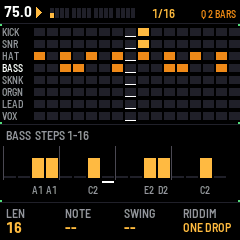
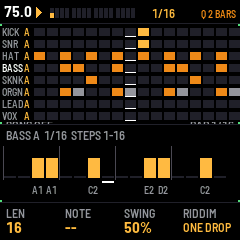
4.8 the session (4/4): docs, the second walkthrough, combos on the keyboard
Docs:
- Manual: the STEPS controls, four patterns a channel, recording live,
  the SETUP rows, scenes that point at patterns, mute + PRESET, the
  song's bars.
- Cheat sheet: a "Patterns A-D and recording" section.
- Interface spec 4.8, and its shift table built.
- Roadmap 4.8. Slots now hold 2,920 moves (1,490 before).
- The manual's screenshots, regenerated.

Video: tools/video/patterns_dub.py, a second walkthrough built on
first_dub.py's machinery, which now takes a name, a prelude and its
cards. In 54 s:
- a bar of bass is recorded into an empty pattern, counted in, and
  loops as played;
- it is copied into C and launched on the line;
- C is doubled, and a note taken out of the second bar;
- the bass goes back to B from the desk (mute key + PRESET);
- rim and hat pads are overdubbed on the kick's channel, and that
  pass is undone.

Fix: with the keyboard on (REC), HOME + white and SAVE + white now
launch and copy patterns instead of playing notes, and the black keys
no longer change the channel. Tested in rec.txt.

Claude-Session: https://claude.ai/code/session_01GSTvjMb848ASjPbPe5cnK6

diff --git a/app/docs/cheatsheet.html b/app/docs/cheatsheet.html
@@ -119,9 +119,22 @@ footer { margin-top: .6rem; color: var(--muted); font-size: .85em; border-top: 1
 <dt><kbd>White 1–16</kbd></dt><dd>Step on / off.</dd>
 <dt>Hold <kbd>Black 9 · 10</kbd> + white</dt><dd>Accent · ghost.</dd>
 <dt><kbd>OCT− · OCT+</kbd></dt><dd>Page of 16 steps.</dd>
-<dt><kbd>K1 · K2</kbd></dt><dd>Length · the held step's note.</dd>
-<dt><kbd>K4</kbd></dt><dd>Riddim: ONE DROP, ROCKERS, STEPPERS, FLYERS, UK STEPPERS.</dd>
-<dt><kbd>REC</kbd></dt><dd>On bass, skank or lead: play the keyboard into the steps.</dd>
+<dt><kbd>K1 · K2</kbd></dt><dd>Length (<kbd>HOME</kbd>: grid 1/8 … 1/16T … 1/32) · the held step's note.</dd>
+<dt><kbd>K3 · K4</kbd></dt><dd>Swing · riddim. A step held: nudge it · its gate.</dd>
+</dl>
+</section>
+
+<section>
+<h2>Patterns A–D and recording</h2>
+<dl>
+<dt><kbd>HOME</kbd>+<kbd>White 1–4</kbd></dt><dd>Launch this channel's A–D on the line, from its top. <kbd>White 9–12</kbd>: every channel's.</dd>
+<dt><kbd>SAVE</kbd>+<kbd>White 1–4</kbd></dt><dd>Copy the pattern into A–D.</dd>
+<dt><kbd>HOME</kbd>+<kbd>OCT+ · OCT−</kbd></dt><dd>Double the pattern · clear it.</dd>
+<dt>Mute key + <kbd>PRESET</kbd></dt><dd>(DUB) That channel's next pattern.</dd>
+<dt><kbd>REC</kbd> playing</dt><dd>Record as you play. Empty pattern: from the one, a pass, then it loops. Else: overdub until REC.</dd>
+<dt><kbd>REC</kbd> stopped</dt><dd>Keyboard on; then <kbd>PLAY</kbd> counts in a bar and records.</dd>
+<dt>Drums</dt><dd>Whites 1–4 are pads: kick, rim, closed hat, open hat.</dd>
+<dt><kbd>SEQ</kbd></dt><dd>Leave the keyboard. SETUP: REC QUANTISE, MODE, OFFSET, CLICK.</dd>
 </dl>
 </section>
 

diff --git a/tools/video/patterns_dub.py b/tools/video/patterns_dub.py
@@ -1,0 +1,99 @@
+#!/usr/bin/env python3
+# SPDX-License-Identifier: GPL-3.0-only
+# Copyright (C) 2026 Dubwise FM contributors
+"""The second walkthrough: patterns and recording (roadmap 4.8). The same machinery as first_dub.py (the host
+simulator's screen and sound, the panel lit as it is played, captions; no voice), its own storyboard: a bass line
+recorded into an empty pattern, copied, launched, doubled, switched from the desk, and drum pads overdubbed.
+
+  python3 tools/video/patterns_dub.py        (after ./build.sh --host and ./build.sh --web)
+
+Writes app/build/video/: patterns-dub.mp4, patterns-dub.srt, patterns-dub-narration.txt.
+"""
+import sys
+
+import first_dub as fd
+
+T0, BEAT, BAR = 10065, 800, 3200                # 75 BPM; PLAY let go at 10,060 ms
+
+
+def at(bar, beat=1, plus=0):
+    return T0 + (bar - 1) * BAR + (beat - 1) * BEAT + plus
+
+
+fd.NAME = "patterns-dub"
+fd.PRELUDE = ["wait 600", "listen", "master 3400", "param rec.offset 0"]   # (the host has no output buffers)
+fd.TITLE_CARD = ("Patterns and recording", ["Dubwise FM on the M-VAVE FM-1", "Four patterns a channel, and live loops",
+                                             "", "(the real firmware, in its simulator)"])
+fd.OUTRO_CARD = ("That's a loop.", ["Next: store a scene with patterns for each", "version (ARRANGE, KNOB 4: DESK+PAT),",
+                                    "then capture the song (REC on the DUB page).", "",
+                                    "Cheat sheet: docruzzy.github.io/dubwise-fm/cheat"])
+fd.CAPTIONS = [
+    (0, ""),
+    (3000, "Press SEQ for the STEPS page, then black key 4: the bass."),
+    (6200, "Every channel has four patterns, A to D. Hold HOME and press white key 2: the bass's pattern B. It's empty."),
+    (9600, "Press PLAY. The riddim plays, and the bass is silent."),
+    (at(2, 1), "Press REC. An empty pattern waits for the next bar line, and the click counts you in."),
+    (at(3, 1, -300), "Play! One bar of bass: it records one pass..."),
+    (at(4, 1), "...then loops it as you played it: each note lands where you put it, not on a stiff grid."),
+    (at(5, 1), "SEQ leaves the keyboard. Hold SAVE and press white key 3: the line is copied into pattern C."),
+    (at(5, 4), "Hold HOME and press white key 3: C takes over at the next bar line, from its top."),
+    (at(6, 1, 400), "HOME and OCT+ double it: two bars. On the second page, take out its first note: a gap where the "
+                    "dub breathes."),
+    (at(7, 1), "HOME goes back to the DUB page. The letter by each channel is the pattern it plays."),
+    (at(8, 1), "Hold the bass's mute key and turn PRESET: back to B, on the line. The mute stays as it was."),
+    (at(9, 2), "On a drum channel, white keys 1 to 4 are pads: kick, rim, closed hat, open hat. REC records over "
+               "the loop at once."),
+    (at(11, 1, 200), "REC stops. Not happy with it? HOME and REC take the whole pass back."),
+    (at(12, 1, 200), "Patterns, launches and loops: the dub engineer's multitrack, under your fingers."),
+]
+fd.OUTRO_FROM = at(12, 1, 3000)
+fd.END_MS = fd.OUTRO_FROM + 5500
+fd.TITLE_UNTIL = 3000
+fd.EVENTS.clear()
+E = fd.EVENTS
+
+
+def hold(btn, t0, t1):                           # a button held from t0 to t1
+    E.append((t0, f"press {btn}", 2, ("btn", btn, True)))
+    E.append((t1, f"release {btn}", 2, ("btn", btn, False)))
+
+
+fd.press(3500, "SEQ")
+fd.key(4500, "b3")                               # the bass
+hold("HOME", 7000, 7700)
+fd.key(7250, "w1")                               # its B
+fd.press(10000, "PLAY")
+fd.press(at(2, 1, 300), "REC")                   # armed for bar 3
+# a bar of bass in A minor (the keyboard: white 3 is A1, 5 C2, 6 D2, 7 E2), a little off the grid here and there
+fd.key(at(3, 1, 5), "w2", 350, 110)
+fd.key(at(3, 1, 610), "w2", 120, 70)
+fd.key(at(3, 2, 390), "w4", 300, 100)
+fd.key(at(3, 3, 415), "w6", 200, 100)
+fd.key(at(3, 4, -10), "w5", 150, 90)
+fd.key(at(3, 4, 400), "w4", 250, 100)
+fd.press(at(5, 1, 200), "SEQ")                   # the keyboard off
+hold("SAVE", at(5, 2), at(5, 2, 500))
+fd.key(at(5, 2, 200), "w2")                      # copied into C
+hold("HOME", at(5, 4), at(5, 4, 400))
+fd.key(at(5, 4, 150), "w2")                      # C launched for bar 6
+hold("HOME", at(6, 1, 500), at(6, 1, 900))
+fd.press(at(6, 1, 650), "OCT+")                  # doubled
+fd.press(at(6, 2, 600), "OCT+")                  # its second page
+fd.key(at(6, 3), "w0")                           # step 17 out
+fd.press(at(6, 4), "OCT-")
+fd.press(at(7, 1, 200), "HOME")                  # the DUB page
+fd.key(at(8, 1), "w3", 1500)                     # the bass's mute key held ..
+fd.turn(at(8, 1, 500), "PRESET", -1)             # .. and PRESET: B, on bar 9's line
+fd.press(at(9, 2), "SEQ")
+fd.key(at(9, 2, 400), "b0")                      # the kick's channel: the pads
+fd.press(at(9, 3), "REC")                        # an overdub, at once
+for b in (2, 3, 4):                              # rims on the off-beats, an open hat to lift it
+    fd.key(at(10, b, 400), "w1", 80, 80)
+fd.key(at(10, 4, 0), "w3", 80, 100)
+fd.press(at(11, 1), "REC")                       # stop recording
+hold("HOME", at(11, 3), at(11, 3, 400))
+fd.press(at(11, 3, 150), "REC")                  # the pass undone
+fd.press(at(12, 1), "PLAY")                      # stop
+
+if __name__ == "__main__":
+    sys.exit(fd.main())

diff --git a/tools/video/first_dub.py b/tools/video/first_dub.py
@@ -63,6 +63,13 @@ CAPTIONS = [                                     # (from ms, text)
 ]
 END_MS = 158000
 TITLE_UNTIL, OUTRO_FROM = 3000, 151500
+NAME = "first-dub"                               # the files' name (another storyboard sets its own: patterns_dub.py)
+PRELUDE = ["wait 600", "listen", "master 3400"]  # the host's first lines
+TITLE_CARD = ("Your first dub", ["Dubwise FM on the M-VAVE FM-1", "A SpIllt Beats release", "",
+                                 "(the real firmware, in its simulator)"])
+OUTRO_CARD = ("That's a dub.", ["Next: load RIGHTEOUS DUB (SETUP, DEMO SONG)", "and play along with it.", "",
+                                "Cheat sheet: docruzzy.github.io/dubwise-fm/cheat", "Play it in your browser:",
+                                "docruzzy.github.io/dubwise-fm"])
 
 EVENTS = []                                      # (ms, host command, cost ms, the control it lights or lets go)
 
@@ -132,7 +139,7 @@ press(131000, "PLAY")                            # the song plays itself, 6 bars
 
 
 def build_script():
-    lines = ["wait 600", "listen", "master 3400", f"wav {OUT.name}/first-dub.wav"]
+    lines = PRELUDE + [f"wav {OUT.name}/{NAME}.wav"]
     ev = sorted(EVENTS, key=lambda e: e[0])
     j, t = 0, 0
     for f in range(END_MS // STEP):
@@ -224,11 +231,8 @@ def compose():
     splash = Image.open(OUT / "splash.png").convert("RGB")
     f_cap = ImageFont.truetype(str(FONT), 34)
     f_small = ImageFont.truetype(str(FONT_M), 22)
-    title = card("Your first dub", ["Dubwise FM on the M-VAVE FM-1", "A SpIllt Beats release", "",
-                                     "(the real firmware, in its simulator)"], splash)
-    outro = card("That's a dub.", ["Next: load RIGHTEOUS DUB (SETUP, DEMO SONG)", "and play along with it.", "",
-                                   "Cheat sheet: docruzzy.github.io/dubwise-fm/cheat", "Play it in your browser:",
-                                   "docruzzy.github.io/dubwise-fm"], splash)
+    title = card(TITLE_CARD[0], TITLE_CARD[1], splash)
+    outro = card(OUTRO_CARD[0], OUTRO_CARD[1], splash)
     held, flash = set(), {}
     ev = sorted(EVENTS, key=lambda e: e[0])
     j = 0
@@ -287,20 +291,20 @@ def srt_time(ms):
 
 def write_texts():
     caps = [(t, c) for t, c in CAPTIONS if c]
-    srt, nar = [], ["Dubwise FM: your first dub. Narration script (the captions, with their times).", ""]
+    srt, nar = [], [f"Dubwise FM: {TITLE_CARD[0].lower()}. Narration script (the captions, with their times).", ""]
     for i, (t, c) in enumerate(caps):
         end = caps[i + 1][0] if i + 1 < len(caps) else OUTRO_FROM
         srt += [str(i + 1), f"{srt_time(t)} --> {srt_time(end)}", c, ""]
         nar.append(f"[{t // 60000}:{t // 1000 % 60:02d}] {c}")
-    (OUT / "first-dub.srt").write_text("\n".join(srt))
-    (OUT / "first-dub-narration.txt").write_text("\n".join(nar) + "\n")
+    (OUT / f"{NAME}.srt").write_text("\n".join(srt))
+    (OUT / f"{NAME}-narration.txt").write_text("\n".join(nar) + "\n")
 
 
 def main():
     if FRAMES.exists():
         shutil.rmtree(FRAMES)
     FRAMES.mkdir(parents=True)
-    script = OUT / "first-dub.txt"
+    script = OUT / f"{NAME}.txt"
     script.write_text(build_script())
     host_out = ROOT / "app/build"                # (the script's paths are under app/build/video/)
     subprocess.run([str(HOST), str(script), str(host_out)], check=True, stdout=subprocess.DEVNULL)
@@ -309,9 +313,9 @@ def main():
     panel_picture(OUT / "panel.png")
     compose()
     write_texts()
-    mp4 = OUT / "first-dub.mp4"
+    mp4 = OUT / f"{NAME}.mp4"
     subprocess.run(["ffmpeg", "-y", "-loglevel", "error", "-framerate", str(FPS), "-i", str(FRAMES / "f%05d.png"),
-                    "-i", str(OUT / "first-dub.wav"), "-c:v", "libx264", "-pix_fmt", "yuv420p", "-crf", "20",
+                    "-i", str(OUT / f"{NAME}.wav"), "-c:v", "libx264", "-pix_fmt", "yuv420p", "-crf", "20",
                     "-preset", "medium", "-c:a", "aac", "-b:a", "192k", "-shortest", str(mp4)], check=True)
     print(f"{mp4}: {mp4.stat().st_size // 1024} KB, {END_MS / 1000:.0f} s")
 

diff --git a/app/steps.c b/app/steps.c
@@ -525,7 +525,7 @@ static void rec_tick(void)               /* every frame: the pass's line, its en
 static void steps_keys(uint32_t keys, uint32_t prev)
 {
     uint32_t k;
-    if (st.kb) {
+    if (st.kb && !(dub.btn >> B_HOME & 1u) && !(dub.btn >> B_SAVE & 1u)) {   /* (HOME or SAVE held: the session's) */
         kb_keys(keys, prev);
         return;
     }
@@ -547,9 +547,11 @@ static void steps_keys(uint32_t keys, uint32_t prev)
             } else if ((dub.btn >> B_SAVE & 1u) && k < NPAT) {
                 dub.save_used = 1;
                 pat_copy(st.ch, k);
-            } else if (!(dub.btn >> B_HOME & 1u) && !(dub.btn >> B_SAVE & 1u))
+            } else if (!(dub.btn >> B_HOME & 1u) && !(dub.btn >> B_SAVE & 1u) && !st.kb)
                 steps_key(k);
         }
+    if (st.kb)
+        return;                          /* (the keyboard's: the channel stays) */
     for (k = 0; k < NCH; k++)
         if ((keys >> BK[k] & 1u) && !(prev >> BK[k] & 1u)) {
             st.ch = (int32_t)k;

diff --git a/app/slots.c b/app/slots.c
@@ -8,7 +8,7 @@
  * stops the sound for a moment. A loaded project is the current one (SAVE keeps it as that).
  * Each slot is 32 KiB of the flash's data area (two free runs: 0x97000 and 0xBD000), a header written last (a save
  * cut short reads as empty), then the parameters, the patterns' settings and steps, the scenes, the song, and the
- * motion (its counts, then its moves, 2,900 at most). A slot saved before the session (DSL1: one pattern a channel,
+ * motion (its counts, then its moves, 2,920 at most). A slot saved before the session (DSL1: one pattern a channel,
  * scenes with copies) loads as patstore.c converts an old save. Part of the unity build: dub.c includes it. */
 
 #define NSLOTS 4u

diff --git a/app/docs/MANUAL.md b/app/docs/MANUAL.md
@@ -124,6 +124,10 @@ Turn KNOB 1 (or SELECT) to move through the list and KNOB 2 (or PRESET) to chang
 | BIG KNOB STEPS | 10 ALTEC (the default): the ten steps of King Tubby's filter, the stepped sound. 20 or 40: finer steps, the ten still among them (evenly between them in pitch, and down to 42 Hz under 70), for a smoother climb. A song or scene sounds the same whichever you choose. |
 | THROW VELOCITY | ON (the default): a throw is as big as the key was hit. OFF: every throw at full level. |
 | MIDI CLOCK | OFF (the default); IN: follow a computer or drum machine over USB: its Start starts Dubwise from bar 1, its Stop stops it, and its clock sets the tempo and keeps the bars in step; OUT: lead: Dubwise sends Start, 24 clocks a beat and Stop, so other gear follows it. |
+| REC QUANTISE | Live recording: FEEL (the default; as you played it), HALF (halfway to the grid) or GRID. |
+| REC MODE | Recording into a pattern with steps: OVERDUB (adds) or REPLACE (clears what the playhead passes, keeping what you play). |
+| REC OFFSET | 0–60 ms (12 by default) taken off each played note's time, for the sound's way to your ears. |
+| CLICK | COUNT-IN (the default: a click on every beat while a pass waits for its line), RECORDING (and while recording), or OFF. |
 | AUTOSAVE | ON (the default): what SAVE keeps is saved by itself once you've stopped and left the FM-1 alone for a few seconds (and the echo has died away), so switching off never loses a session; SAVE's light going out says it's done. OFF: only SAVE saves. |
 | TEST TONES | A test tone on every channel (not saved). |
 | GUARD TIER | AUTO, or a tier locked as a sound: STUDIO (everything), FOUR-TRACK (mono returns, a simpler spring), SEVEN-INCH (thinner skank and organ, no sub, a plainer echo with heavier tape saturation: rougher, like a 1970s 7-inch). On AUTO, the FM-1 steps down a tier by itself when it's working too hard, and back up when it can; the header shows 4T or 7IN while it's down. |
@@ -146,10 +150,52 @@ channel you're editing, bigger, with its notes.
 | Black keys 1–8 | Pick the channel to edit. |
 | Hold black key 9 or 10 + a white key | Make that step an accent or a ghost note (again: back to normal). |
 | OCT− · OCT+ | The page of 16 steps: 1–16, 17–32, 33–48, 49–64. |
-| KNOB 1 · LEN | The pattern's length, 1 to 64 steps. |
+| KNOB 1 · LEN | The pattern's length, 1 to 64 steps. Hold HOME: its GRID instead, 1/8, 1/8T, 1/16, 1/16T (triplets) or 1/32. |
 | KNOB 2 · NOTE | The note of the step you hold, or the last one you touched: a semitone a click. On the hats, closed or open. |
-| KNOB 4 · RIDDIM | Load a riddim into the drums and bass: ONE DROP, ROCKERS, STEPPERS, FLYERS or UK STEPPERS. It lands on the next bar line, and then it's just steps you can change. |
-| REC (on the bass) | The keyboard: all 27 keys play the bass, from F in the octave set on the KEY page. While playing, each note you play is recorded at the nearest step. While stopped, notes go in one step after another. Press REC again for the steps. |
+| KNOB 3 · SWING | The pattern's swing, 50 % (straight) to 75 %: every other step later. Hold a step: NUDGE it off its line instead, a tick (about 3 ms) a click, up to half a step either way. A step off its line shows a small mark. |
+| KNOB 4 · RIDDIM | Load a riddim into the drums and bass: ONE DROP, ROCKERS, STEPPERS, FLYERS or UK STEPPERS. It lands on the next bar line, and then it's just steps you can change. Hold a step: its GATE instead, how long the bass or lead note holds (AUTO: a step for the bass, two for the lead). |
+| REC | The keyboard and live recording: see below. |
+
+### Four patterns a channel (the session)
+
+Every channel has four patterns, **A, B, C and D**, each with its own length, grid and swing. One plays; the others
+wait. It works like a session in Ableton Live, or an OP-Z: put a bass line in A, its version in B, a busier one in C,
+and launch them as the tune goes, while the drums keep their own. The letter by each channel shows which plays, amber
+while a launch waits for its line.
+
+| Control | What it does |
+| --- | --- |
+| HOME + white 1–4 | Launch this channel's A–D. Playing, it lands on the next line of the quantise setting (hold PLAY: now) and starts from its top. While HOME is held, whites 1–4 show the patterns: the one playing bright, others with steps dim. |
+| HOME + white 9–12 | Launch A–D on every channel at once. |
+| SAVE + white 1–4 | Copy the pattern you're editing into A–D (then change the copy). |
+| HOME + OCT+ | Double the pattern: its steps again after it, so 16 becomes 32 (64 at most). Then vary the second half. |
+| HOME + OCT− | Clear the pattern. |
+| A mute key held + PRESET (DUB page) | Launch that channel's next or previous pattern without leaving the desk. The mute stays as it was. |
+
+The STEPS page edits the pattern you launched, at once, while the one playing carries on to its line. Every one of
+these is a step of the undo history (HOME + REC).
+
+### Recording live
+
+Press **REC** while playing, and play: the keyboard (bass and lead: all 27 keys, from F in the octave set on the KEY
+page), or the pads.
+
+- **An empty pattern** waits for the next bar line, with the click counting you in, records one pass of the pattern
+  (set its length first: 16 steps is a bar), then loops it and lets you play along. Like an RC-505.
+- **A pattern with steps** records at once, until you press REC again. REC MODE (SETUP) is OVERDUB, which adds, or
+  REPLACE, which clears what the playhead passes, keeping what you play.
+- **Where it lands:** a note keeps where you played it, to about 3 ms (REC QUANTISE: FEEL). HALF moves it halfway to
+  the grid; GRID puts it on the grid. A note played just before the line of an armed pass starts the pass, so an
+  early downbeat counts.
+- **How hard and how long:** a soft note becomes a ghost, a hard one an accent. The bass and lead keep how long you
+  held each note.
+- **The pads:** on a drum channel, whites 1–4 are the kick, rim, closed hat and open hat, each into its own channel.
+  On the skank or organ, whites 1–3 play the chord lane's chord low, middle or high.
+- **Stopped,** REC turns the keyboard on, and notes go in one step after another at a cursor. Press PLAY with it on:
+  a bar of click, then the pass.
+- **SEQ** leaves the keyboard. A pass is one step of the undo history: HOME + REC takes the whole pass back.
+- **REC OFFSET** (SETUP) makes up for the time the sound takes to reach your ears: if your notes land late, raise it.
+  In a browser, try 40–80 ms.
 
 On the skank and organ, a step doesn't hold a note: it holds a voicing, LO, MD or HI (KNOB 2), and the notes are
 the chord lane's chord for that bar. Change the chords and the parts follow.
@@ -163,21 +209,23 @@ skank chopping every off-beat, no organ.
 ## 3e. ARRANGE (HOME, then HOME again): scenes
 
 A scene is a snapshot of the desk: every channel's level, mute, solo, echo and spring sends and throw destination,
-the Big Knob and both returns. A scene with patterns (P) keeps every channel's pattern too, so one scene can be the
-"dub" and another the "vocal" version of the same riddim.
+the Big Knob and both returns. A scene with patterns (P) also keeps which pattern (A–D) each channel plays, like a
+row of the session: one scene can be the "vocal" version (bass A, skank on) and another the "dub" (bass B, the
+skank out).
 
 | Control | What it does |
 | --- | --- |
 | White keys 1–16 | Recall that scene. Like a mute, it lands on the next line of the quantise setting (hold PLAY for now); the strips blink until then. |
 | SAVE held + a white key | Store the desk as it is now into that scene. |
-| KNOB 4 | What the next store keeps: DESK, or DESK+PAT (the patterns too, marked P). |
+| KNOB 4 | What the next store keeps: DESK, or DESK+PAT (which pattern each channel plays too, marked P). |
 | PRESET (on the DUB page) | Step to the next or previous stored scene, on the line. |
+| A mute key held + PRESET (DUB page) | That channel's next or previous pattern (A–D), on the line. |
 
 SAVE on its own (pressed and let go) saves everything to the FM-1, scenes included.
 
 ### The song
 
-The song is a list of bars (up to 512: about 28 minutes at 72 BPM, 15 at 140). Each bar can hold the mutes and solos, the Big Knob and a scene. To make
+The song is a list of bars (up to 512: about 28 minutes at 72 BPM, 15 at 140). Each bar can hold the mutes and solos, the Big Knob, a scene, and which pattern each channel plays (so launching B on the bass mid-take is in the song). To make
 one, play it: press REC (on the DUB or ARRANGE page) to arm capture, press PLAY, and dub. At every bar line, that
 bar takes what the desk is doing: your drops, mutes, solos, Big Knob moves and scene changes. Stop, and press REC to
 disarm. A pass that starts from bar 1 becomes the song, as long as you played. HOME + REC takes the last pass back.

diff --git a/docs/roadmap.md b/docs/roadmap.md
@@ -144,12 +144,13 @@ image +6.2 KB (the page); CPU only while a cue waits (the transport stepped per 
 | # | Feature | Notes |
 |---|---|---|
 | 4.1 | MIDI clock in / out | **Done (2026-11-09).** SETUP: MIDI CLOCK OFF / IN / OUT. OUT: Start at the transport's start, 24 clocks a beat on its own clock, Stop at its stop; the render notes each clock's moment (the block's start plus its sample), the 1 kHz tick (`APP_TICK`) sends it when due: within a millisecond, not bunched a block at a time. IN: Start / Continue start from bar 1, Stop stops; the clocks' spacing over the last beat sets the tempo (`plat_midi_in_t24`), and the bar is kept in phase by nudging the tempo (at most 5 %). The host simulates its time base from its milliseconds (its `plat_ticks24` is the computer's clock). Test: `clock.txt` (62 clocks in 2.5 beats; 100 BPM in, followed within 1.5 %). Cost: ~1 KB image, ~0.6 KB RAM, CPU ≈0 |
-| 4.2 | Song slots | **Done (2026-11-09):** four saved projects (`app/slots.c`), each 32 KiB of the flash's data area (0x97000, 0x9F000, 0xA7000, 0xBD000): the parameters (a load takes the project's: the desk, effects, sounds, key, chords, song settings; the device's preferences stay), the patterns, the 16 scenes, the song (512 bars) and its motion (up to 1,490 moves; more: TOO MANY MOVES). A header with a checksum is written last (a cut-off save reads as empty). SETUP: SAVE TO SLOT / LOAD SLOT, KNOB 2 picks, the SAVE button does it; stopped only. The motion goes in the way the demo's does (the engine hands it over). Test: `slots.txt`. Cost: 1.7 KB image, 0.3 KB RAM, 128 KiB of flash data area |
+| 4.2 | Song slots | **Done (2026-11-09):** four saved projects (`app/slots.c`), each 32 KiB of the flash's data area (0x97000, 0x9F000, 0xA7000, 0xBD000): the parameters (a load takes the project's: the desk, effects, sounds, key, chords, song settings; the device's preferences stay), the patterns, the 16 scenes, the song (512 bars) and its motion (up to 2,920 moves since the session, 4.8, which made the scenes small: 1,490 before; more: TOO MANY MOVES). A header with a checksum is written last (a cut-off save reads as empty). SETUP: SAVE TO SLOT / LOAD SLOT, KNOB 2 picks, the SAVE button does it; stopped only. The motion goes in the way the demo's does (the engine hands it over). Test: `slots.txt`. Cost: 1.7 KB image, 0.3 KB RAM, 128 KiB of flash data area |
 | 4.3 | Backup and slot sharing | **Done (2026-11-09):** fm1-base's backup (`backup = true`): the store objects (settings, sounds, patterns, scenes, song) to and from a file with `base/tools/fm1_backup.py`; SAVE waits while one streams; a restore reloads as at boot (`load_saved`). The motion and the slots live outside the store, so a slot travels on its own: SysEx F0 7D 44 57 (`app/slots.c`: dump 01 → pieces 11, end 12 / empty 13; put 21 pieces, 22 end → 16 kept / 15 refused), 256-byte pieces 7-bit packed, paced by the ring's room; a put writes the header only after the length and sum check (a damaged one leaves the slot empty). `tools/dubwise_slots.py get / put / info` (mido). Tests: `backup.txt`, `tests/slot_transfer_test.py` (the demo out of slot 2, into slot 3 through the tool's own framing, loaded and checked; a damaged image refused). Cost: image +4.8 KB, RAM +1.2 KB, pool +3.8 KB (the restore's buffer) |
 | 4.4 | Efficiency: tonal voices at half rate | **Done (2026-11-09):** the bass, skank and organ render at 22,050 Hz, the memory plan's rate for tonal voices: a sample of theirs every other output sample, the one between the two's mean (one sample's fixed delay); their per-sample constants converted exactly (decays squared, steps doubled, one-poles as two steps). The lead (brass, melodica: bright) and the drums stay at 44.1 kHz. A/B on the same demo window, ×80 rule: bass 4.5 → 2.5 %, organ 13.3 → 7.5 %, total 45.9 → 39 % of a device block. Every test (pitch, WAV) unchanged. **Not done: the second core.** It would run the spring (or the echo) a block behind on the other core; a fault there shows only on a device, and the guard tiers already keep the sound whole under load. Next once the FM-1 has been measured (the PERF page) |
 | 4.5 | Autosave | **Done (2026-11-09; QoL review 1):** SETUP AUTOSAVE (on by default): SAVE's work done by itself once stopped, untouched for 4 s (no key or button held), the output under −60 dB (a flash write stops the sound for a moment) and no demo or slot motion being loaded; quiet (SAVE's light going out says it); a failed save waits 30 s. Test: `autosave.txt` (kept after a restart; not while playing; not with it off) |
 | 4.6 | Undo / redo | **Done (2026-11-09; QoL review 2; spec 4.6):** HOME + REC undoes, HOME + GLO redoes (HOME + PLAY is the rewind). `app/undo.c`: every change the hands make to the mirror (control.c's hook: parameters, steps, a template, a scene recalled, each as old and new) in a history of 1,024 changes; a press starts a step, a knob's turns run together (700 ms). Not kept: the momentaries (throws and their velocity amount, freeze, push, dive, wet, D&B, crash), the transport, capture, the rewind; loads (demo, slot, restore) clear it. A song capture newer than the last step is what HOME + REC takes back. Test: `undo.txt`. Cost: pool +8 KB, RAM +1.2 KB |
 | 4.7 | Help cards and tap tempo | **Done (2026-11-09; QoL review 3; spec 4.6, 5):** `app/help.c`. A button held alone for 1 s shows its card for the page (19 cards, page variants for REC on STEPS, SAVE on ARRANGE and SETUP, OCT on STEPS), also spoken to a screen reader; its let-go does nothing more. HOME + SEQ taps set the tempo (four gaps averaged), one undo step. Test: `help.txt`. Cost: UI only; flash +4 KB, RAM +48 B |
+| 4.8 | The session: patterns A–D, live recording | **Done (2026-11-09; a player's request: "patterns for each track … like a looper", "16 quantisation is a little stiff"; spec 4.8):** four patterns a channel with their own length, grid (1/8–1/32 with triplets) and swing; a 240-tick clock with per-step offsets and gates; launches on the line from the top; scenes and song bars point at patterns (16 KB of scene copies gone); live recording the looper's way (count-in, one pass into an empty pattern, overdub / replace, FEEL / HALF / GRID, velocity to level, gates, drum and chord pads, one undo step a pass); old saves and slots converted. Tests: timing.txt, patterns.txt, session.txt, rec.txt. Cost: CPU unchanged (10.3 % of the device block); image +16 KB (236,756 B); RAM −1 KB; pool +7.2 KB (276,028 B of 344,064) |
 
 ## Open questions
 

diff --git a/docs/interface-spec.md b/docs/interface-spec.md
@@ -46,7 +46,7 @@ One colour per channel, always paired with its number and a shape cue (filled = 
 | HOME ×2 | ARRANGE | Scenes → Song list |
 | FX | Effects | Echo → Spring → Phaser/Width → Cross-sends |
 | LFO | MIXER | Levels/sends → Filters/drive → Throw destinations |
-| SEQ | STEPS | Steps → Length/rate/swing → Template |
+| SEQ | STEPS | Steps; four patterns a channel (A–D); length, grid (1/8–1/32, triplets), swing; template; live recording (REC) |
 | EDIT | SOUND | Voice pages |
 | ARP | KEY & CHORDS | Key → Chord lane |
 | GLO | SETUP | MIDI · tier lock · quantise · cycle/runway · accessibility · live input |
@@ -124,8 +124,24 @@ When the lock is on, keys outside the allowed set are **silent**. They are never
 | SEQ taps | Tap tempo (built 2026-11-09: the last four gaps averaged; 2 s pause restarts; refused under MIDI clock in) |
 | ARP | Key/scale lock on/off |
 | SAVE | Save as… |
-| White key | Jump to pattern n (on DUB: solo) |
-| Black key | Copy focused channel's pattern to channel n |
+| White key | On STEPS (built 2026-11-09, 4.8): white 1–4 launch the channel's pattern A–D, 9–12 every channel's. On DUB: solo |
+| Black key | (On STEPS the copy is SAVE + white 1–4: into A–D of the same channel, 4.8. Black keys here: one-shots reversed, section words on ARRANGE) |
+
+### 4.8 The session: patterns and live recording (built 2026-11-09)
+Modelled on Ableton Live's session view, the OP-Z's per-track patterns and the RC-505's loops.
+- **Patterns.** Four a channel (A–D), each with its own length (1–64 steps), grid (1/8, 1/8T, 1/16, 1/16T, 1/32) and
+  swing (50–75 %). One plays (CHF_PAT). A launch lands on the quantise line and starts the pattern from its top.
+  Scenes "P" store which pattern each channel plays (a row); the song's bars store them too.
+- **Timing.** 240 fine ticks a beat (3.3 ms at 75 BPM). A step lands on its grid line plus swing plus its own offset
+  (within half a step: played, or nudged with KNOB 3 while held) and holds for its gate (KNOB 4 while held).
+- **STEPS controls.** HOME + white 1–4 launch; HOME + white 9–12 launch on every channel; SAVE + white 1–4 copy into;
+  HOME + OCT+ double; HOME + OCT− clear; HOME + KNOB 1 grid; KNOB 3 swing. DUB: a mute key held + PRESET launches that
+  channel's next pattern (the mute as it was).
+- **Live recording.** REC while playing: an empty pattern is armed for the next bar line (the click counts in),
+  records one pass and loops; a pattern with steps records at once until REC (OVERDUB or REPLACE). Notes keep their
+  timing (REC QUANTISE FEEL / HALF / GRID), less REC OFFSET; velocity becomes the level; bass and lead keep the
+  held length. Drum channels: whites 1–4 are pads (kick, rim, closed hat, open hat); skank and organ: whites 1–3, the
+  chord low / mid / high. Stopped: REC is step entry at a cursor, and PLAY then counts in a bar. A pass is one undo step.
 
 ## 5. Screen
 ### 5.1 DUB page layout (240×240)
